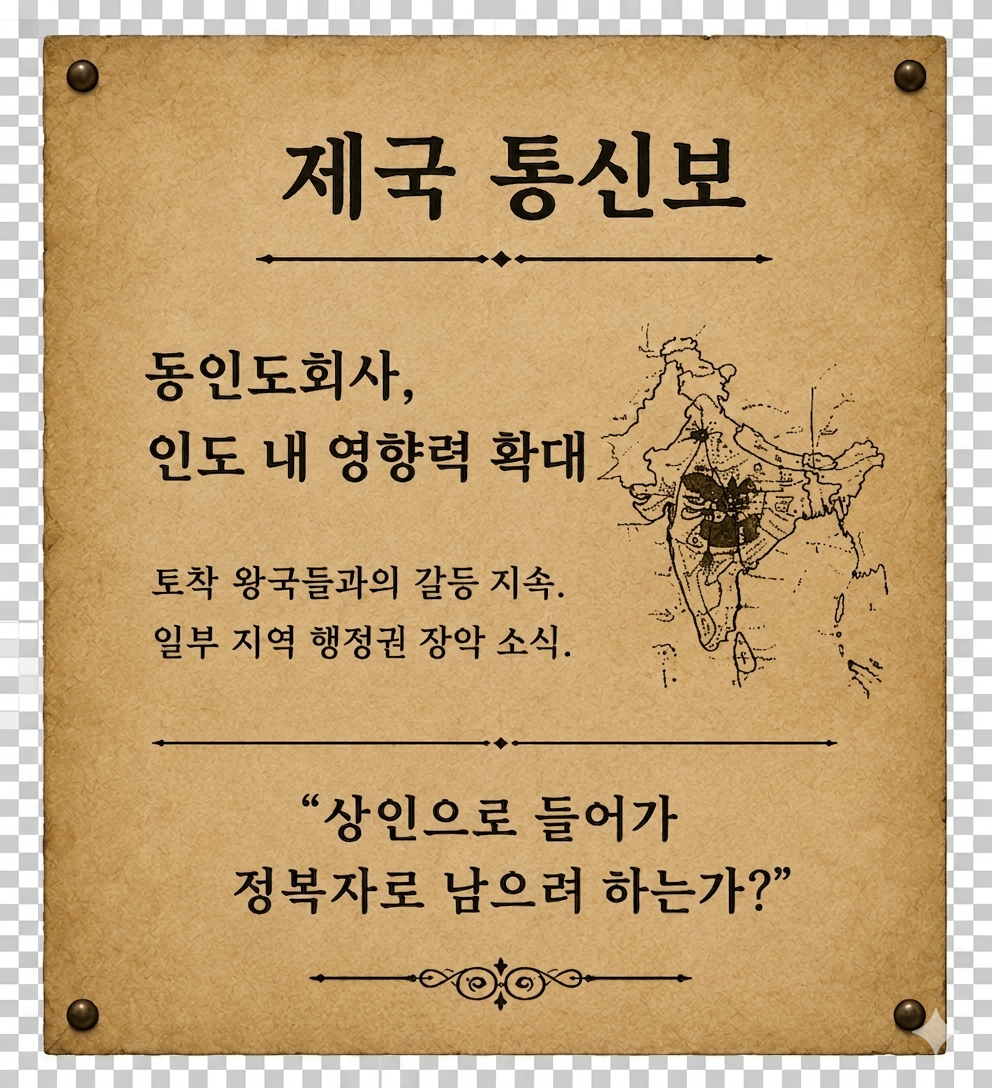
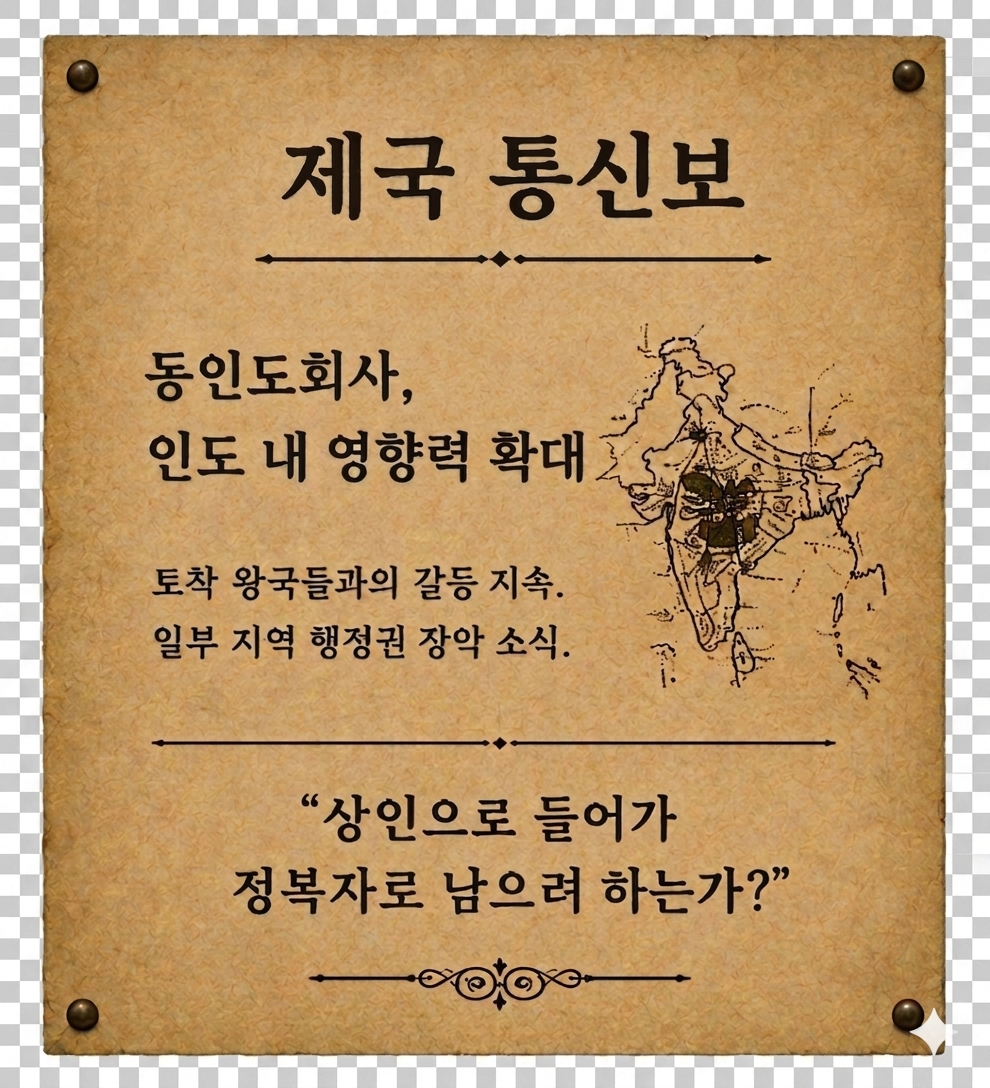
Update notice image and toast timing

diff --git a/src/styles/game.css b/src/styles/game.css
@@ -469,7 +469,7 @@ button:not(:disabled) {
   transform: translate(-50%, -50%);
   backdrop-filter: blur(3px);
   pointer-events: none;
-  animation: element-toast-pop 900ms ease both;
+  animation: element-toast-pop 600ms ease both;
 }
 
 .element-toast::before {
@@ -483,7 +483,7 @@ button:not(:disabled) {
   box-shadow:
     0 0 22px rgba(255, 225, 128, 0.62),
     inset 0 0 18px rgba(255, 255, 255, 0.18);
-  animation: element-toast-ring 900ms ease-out both;
+  animation: element-toast-ring 600ms ease-out both;
 }
 
 .chapter-transition-overlay {

diff --git a/src/App.tsx b/src/App.tsx
@@ -18,7 +18,7 @@ import { judgeEnding } from "./utils/endingJudge";
 const firstChapter = chapters[0];
 const CHAPTER_FADE_MS = 800;
 const CHAPTER_SWAP_DELAY_MS = 0;
-const ELEMENT_TOAST_DURATION_MS = 900;
+const ELEMENT_TOAST_DURATION_MS = 600;
 const CHOICE_OVERLAY_AFTER_TOAST_DELAY_MS = 300;
 const CHOICE_OVERLAY_DELAY_MS =
   ELEMENT_TOAST_DURATION_MS + CHOICE_OVERLAY_AFTER_TOAST_DELAY_MS;
